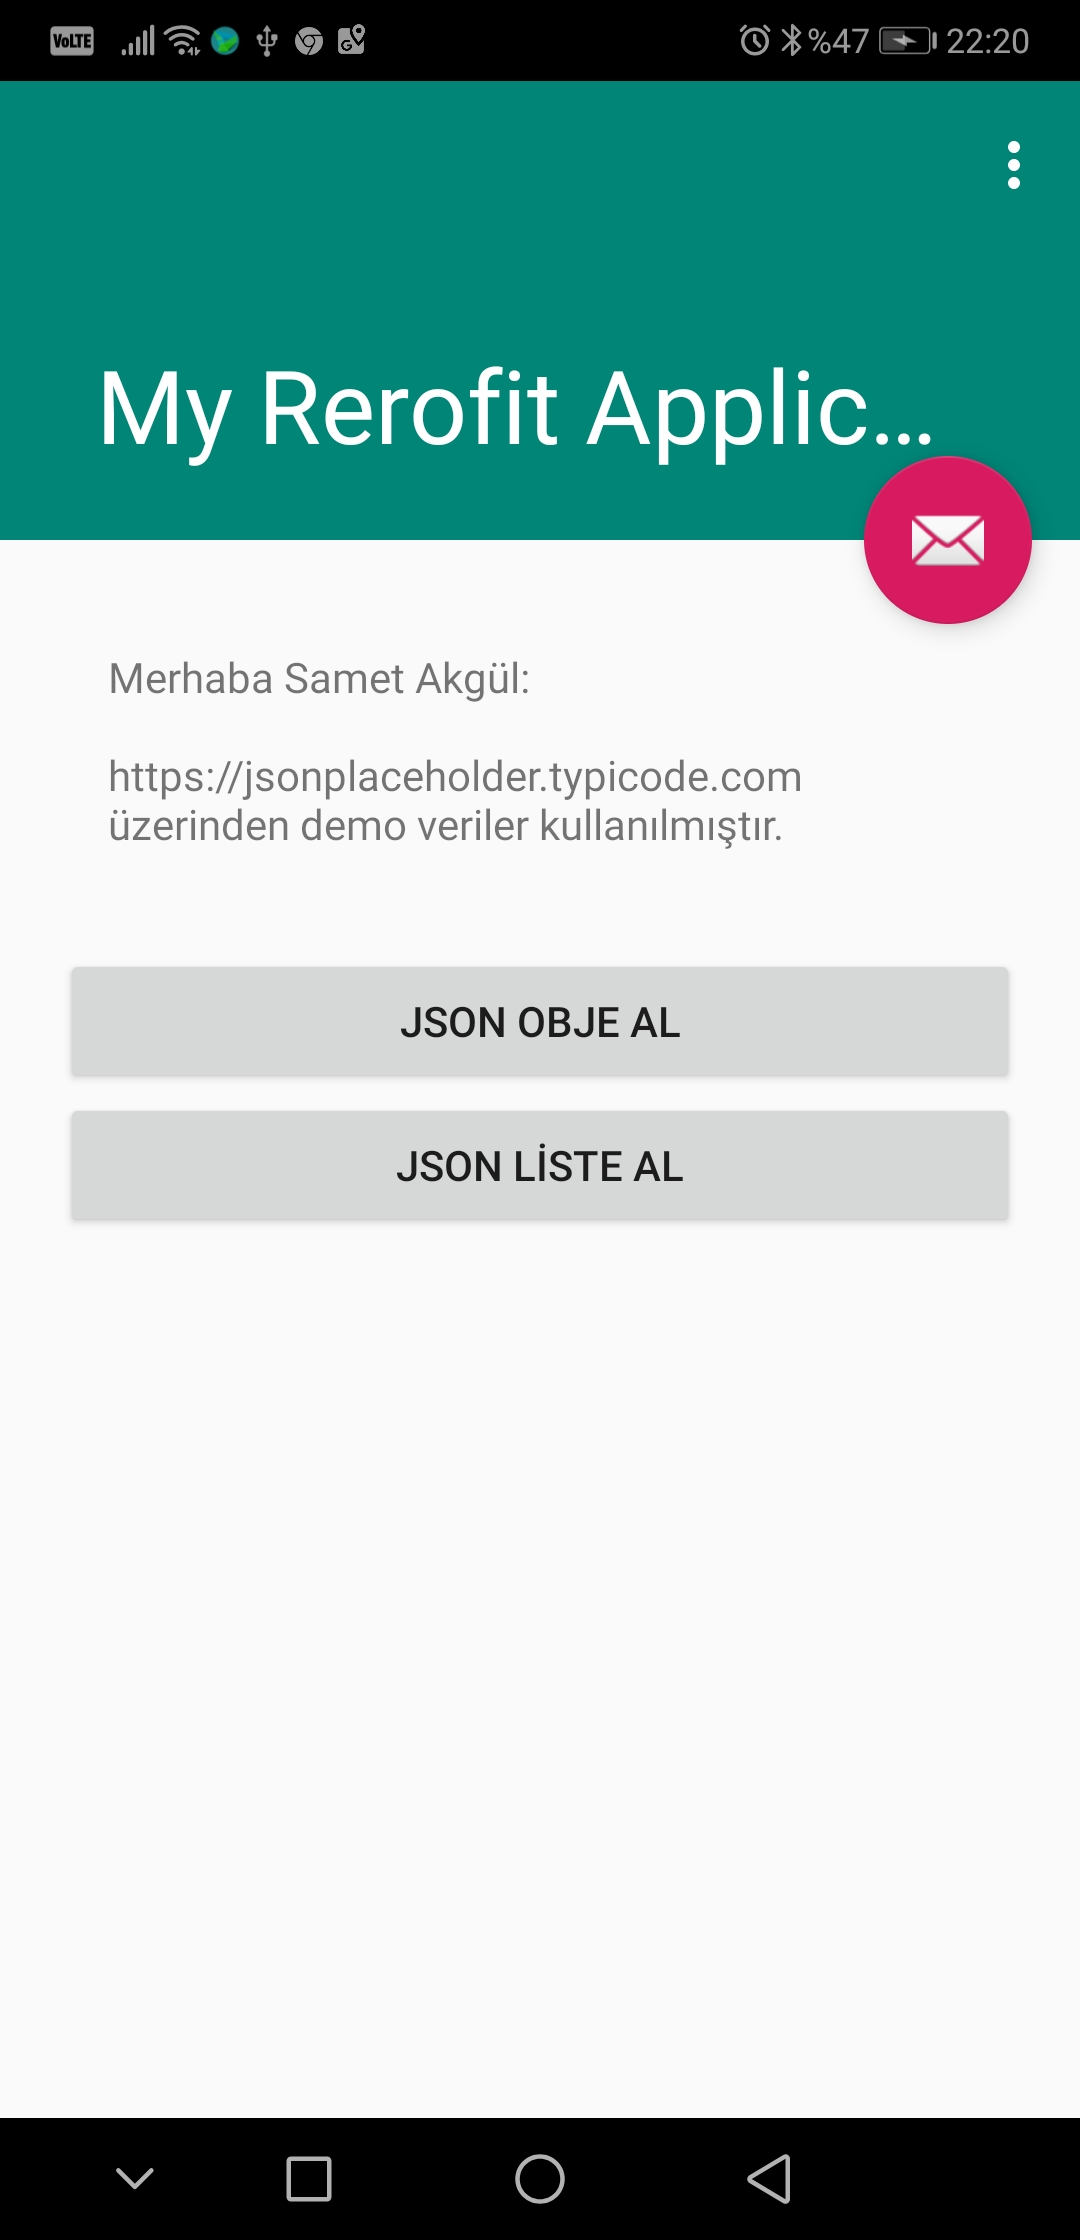
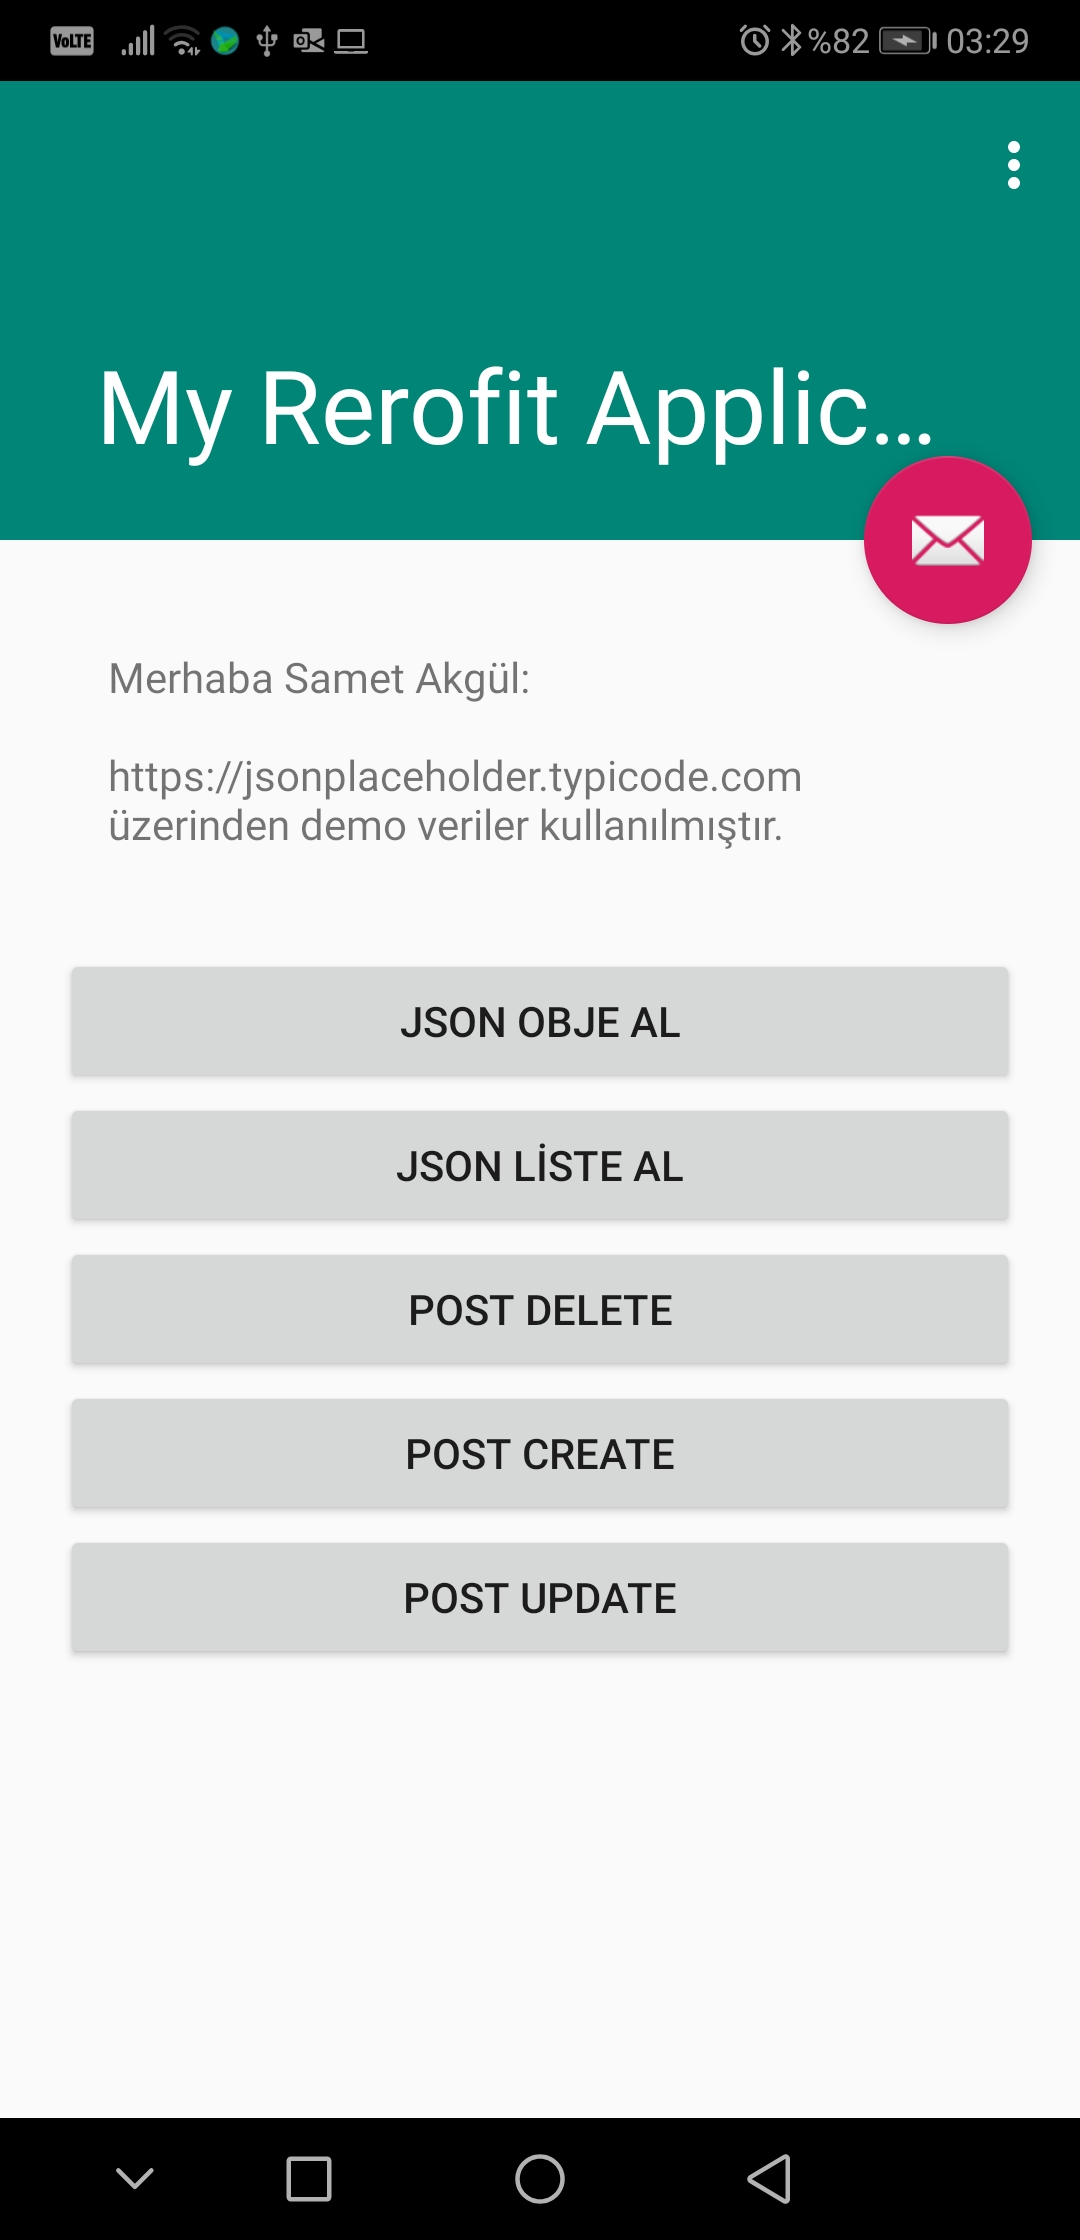
Yeni güncellemeler ve ilave özellikler eklendi.

diff --git a/app/src/main/java/com/levent/myrerofitapplication/activity/MainActivity.java b/app/src/main/java/com/levent/myrerofitapplication/activity/MainActivity.java
@@ -1,8 +1,8 @@
 /*
- * Created by Abdulkadir LEVENT  19.08.2019 22:32
+ * Created by Abdulkadir LEVENT  20.08.2019 03:34
  * Copyright (c) 2019 . All rights reserved.
  * Licensed under the Apache License, Version 2.0 (the "License");
- * Last modified:  19.08.2019 20:28
+ * Last modified:  20.08.2019 03:28
  * Contact: Email : abdulkadirlevent@hotmail.com
  * Package: app / MyRerofitApplication
  * Mobil Proje Yönetim Sistemleri
@@ -16,16 +16,24 @@ import android.os.Bundle;
 import com.google.android.material.floatingactionbutton.FloatingActionButton;
 import com.google.android.material.snackbar.Snackbar;
 import com.levent.myrerofitapplication.R;
+import com.levent.myrerofitapplication.api.ApiInterface;
+import com.levent.myrerofitapplication.api.NetworkService;
+import com.levent.myrerofitapplication.model.Post;
 
 import androidx.appcompat.app.AppCompatActivity;
 import androidx.appcompat.widget.Toolbar;
 
+import android.util.Log;
 import android.view.Menu;
 import android.view.MenuItem;
+import android.widget.Toast;
 
 import butterknife.BindView;
 import butterknife.ButterKnife;
 import butterknife.OnClick;
+import retrofit2.Call;
+import retrofit2.Callback;
+import retrofit2.Response;
 
 public class MainActivity extends AppCompatActivity {
     public static final String TAG = "MainActivity";
@@ -87,6 +95,122 @@ public class MainActivity extends AppCompatActivity {
     @OnClick(R.id.button_liste_al) void listeAl() {
         Intent intent = new Intent(this, PostsActivity.class);
         startActivity(intent);
+    }
+
+    /**
+     * 12 ID Nolu kaydı Sil
+     */
+    @OnClick(R.id.button_delete) void postDelete() {
+        deleteData(1);
+    }
+
+    /**
+     * Yeni Post Olustur
+     */
+    @OnClick(R.id.button_create) void postCreate() {
+        // Yeni Post Olusturuyoruz
+        Post post = new Post(98, 99, "Merhaba bu yeni bir baslıktır", " buda yeni bir içeriktir.");
+        createPostData(post);
+    }
+
+    /**
+     * Post Güncelle
+     */
+    @OnClick(R.id.button_update) void postUpdate() {
+        // Yeni Post verisi Olusturuyoruz
+        Post post = new Post(1, 12, "Merhaba bu post guncellenmiştir", " bu içerikte güncellenmiştir.");
+        updatePostData(post, post.getId());
+    }
+
+    /**
+     * Post Güncelle
+     * @param post
+     */
+    public void updatePostData(Post post, int id) {
+        ApiInterface service = NetworkService.getInstance().getJSONApi();
+        Call<Post> deletePost = service.updatePost(post,id);
+        deletePost.enqueue(new Callback<Post>() {
+            @Override
+            public void onResponse(Call<Post> call, Response<Post> response) {
+                Log.i(TAG, response.toString());
+                if (response.isSuccessful()) {
+                    // Başarılı oldu ise Güncellediğimiz post serverden geri dönmelidir.
+                    Post post = response.body();
+
+                    Toast.makeText(MainActivity.this,
+                            "Başarıyla Güncellendi:\n" + post.getTitle() +"  ID:"+ post.getId(),
+                            Toast.LENGTH_LONG)
+                            .show();
+                } else {
+                    Toast.makeText(MainActivity.this, "Hata! " + response.code(), Toast.LENGTH_LONG).show();
+                }
+            }
+
+            @Override
+            public void onFailure(Call<Post> call, Throwable t) {
+                Log.e(TAG, "Hata!" + t.getMessage());
+                t.printStackTrace();
+            }
+        });
+    }
+
+    /**
+     * Yeni Post Olustur
+     */
+    public void createPostData(Post post) {
+        ApiInterface service = NetworkService.getInstance().getJSONApi();
+        Call<Post> deletePost = service.createPost(post);
+        deletePost.enqueue(new Callback<Post>() {
+            @Override
+            public void onResponse(Call<Post> call, Response<Post> response) {
+                Log.i(TAG, response.body().toString());
+                if (response.isSuccessful()) {
+                    // Başarılı oldu ise oluşturduğumuz post serverden geri dönmelidir.
+                    Post post = response.body();
+
+                    Toast.makeText(MainActivity.this,
+                            "Başarıyla olusturuldu:\n" + post.getTitle() +"  ID:"+ post.getId(),
+                            Toast.LENGTH_LONG)
+                            .show();
+                } else {
+                    Toast.makeText(MainActivity.this, "Hata! " + response.code(), Toast.LENGTH_LONG).show();
+                }
+            }
+
+            @Override
+            public void onFailure(Call<Post> call, Throwable t) {
+                Log.e(TAG, "Hata!" + t.getMessage());
+                t.printStackTrace();
+            }
+        });
+    }
+
+    /**
+     * dataID Nolu kaydı sil
+     * @param dataID
+     */
+    public void deleteData(int dataID) {
+        ApiInterface service = NetworkService.getInstance().getJSONApi();
+        Call<Post> deletePost = service.deletePost(dataID);
+        deletePost.enqueue(new Callback<Post>() {
+            @Override
+            public void onResponse(Call<Post>call, Response<Post> response) {
+                Log.i(TAG, response.toString());
+                if (response.isSuccessful()) {
+                    Toast.makeText(MainActivity.this,
+                            "Başarıyla silindi\nKodumuz doğru çalışıyor.\nSilindiğine dair onay mesajı aldık\nAslında veri siilinmedi çünkü silme yetkimiz yok!",
+                            Toast.LENGTH_LONG)
+                            .show();
+                }else{
+                    Toast.makeText(MainActivity.this, "Hata! " + response.code(), Toast.LENGTH_LONG).show();
+                }
+            }
+            @Override
+            public void onFailure(Call<Post>call, Throwable t) {
+                Log.e(TAG, "Hata!" + t.getMessage());
+                t.printStackTrace();
+            }
+        });
     }
 
 }

diff --git a/app/src/main/java/com/levent/myrerofitapplication/activity/PostActivity.java b/app/src/main/java/com/levent/myrerofitapplication/activity/PostActivity.java
@@ -1,8 +1,8 @@
 /*
- * Created by Abdulkadir LEVENT  19.08.2019 22:32
+ * Created by Abdulkadir LEVENT  20.08.2019 03:34
  * Copyright (c) 2019 . All rights reserved.
  * Licensed under the Apache License, Version 2.0 (the "License");
- * Last modified:  19.08.2019 22:04
+ * Last modified:  20.08.2019 02:17
  * Contact: Email : abdulkadirlevent@hotmail.com
  * Package: app / MyRerofitApplication
  * Mobil Proje Yönetim Sistemleri
@@ -21,8 +21,10 @@ import android.view.MenuItem;
 import android.widget.TextView;
 import android.widget.Toast;
 import com.levent.myrerofitapplication.R;
+import com.levent.myrerofitapplication.api.ApiInterface;
 import com.levent.myrerofitapplication.api.NetworkService;
 import com.levent.myrerofitapplication.model.Post;
+
 import butterknife.BindView;
 import butterknife.ButterKnife;
 import retrofit2.Call;
@@ -64,7 +66,41 @@ public class PostActivity extends AppCompatActivity {
         }
     }
 
+    /**
+     * ÖRNEK 1
+     * @param dataID
+     */
     public void getData(int dataID) {
+        ApiInterface service = NetworkService.getInstance().getJSONApi();
+        Call<Post> call = service.getPostID(dataID);
+        call.enqueue(new Callback<Post>() {
+            @Override
+            public void onResponse(Call<Post> call, Response<Post> response) {
+                Log.i(TAG, response.body().toString());
+                if (response.isSuccessful()) {
+                    if (response.body() != null) {
+                        Log.i(TAG, "onSuccess:" + response.body().toString());
+                        setData(response.body());
+                    } else {
+                        Log.i(TAG, "Kayıt bulunamadı!");
+                        Toast.makeText(PostActivity.this, "Kayıt bulunamadı!", Toast.LENGTH_SHORT).show();
+                    }
+                }
+            }
+
+            @Override
+            public void onFailure(Call<Post> call, Throwable t) {
+                Log.e(TAG, "Hata!" + t.getMessage());
+                t.printStackTrace();
+            }
+        });
+    }
+
+    /**
+     * ÖRNEK 2
+     * @param dataID
+     */
+    public void getData2(int dataID) {
         NetworkService.getInstance()
                 .getJSONApi()
                 .getPostID(dataID)
@@ -86,7 +122,7 @@ public class PostActivity extends AppCompatActivity {
 
                     @Override
                     public void onFailure(Call<Post> call, Throwable t) {
-                        Log.i(TAG, "Hata!" + t.getMessage());
+                        Log.e(TAG, "Hata!" + t.getMessage());
                         t.printStackTrace();
                     }
                 });

diff --git a/app/src/main/java/com/levent/myrerofitapplication/api/ApiInterface.java b/app/src/main/java/com/levent/myrerofitapplication/api/ApiInterface.java
@@ -1,8 +1,8 @@
 /*
- * Created by Abdulkadir LEVENT  19.08.2019 22:32
+ * Created by Abdulkadir LEVENT  20.08.2019 03:34
  * Copyright (c) 2019 . All rights reserved.
  * Licensed under the Apache License, Version 2.0 (the "License");
- * Last modified:  19.08.2019 20:28
+ * Last modified:  20.08.2019 03:21
  * Contact: Email : abdulkadirlevent@hotmail.com
  * Package: app / MyRerofitApplication
  * Mobil Proje Yönetim Sistemleri
@@ -15,7 +15,11 @@ import com.levent.myrerofitapplication.model.Post;
 import java.util.List;
 
 import retrofit2.Call;
+import retrofit2.http.Body;
+import retrofit2.http.DELETE;
 import retrofit2.http.GET;
+import retrofit2.http.POST;
+import retrofit2.http.PUT;
 import retrofit2.http.Path;
 
 public interface ApiInterface {
@@ -33,4 +37,30 @@ public interface ApiInterface {
      */
     @GET("/posts/{id}")
     Call<Post> getPostID(@Path("id") int id);
+
+    /**
+     * Yeni post oluşturuyoruz
+     * @param post
+     * @return
+     */
+    @POST("/posts")
+    Call<Post> createPost(@Body Post post);
+
+    /**
+     * in nolu postu güncelliyoruz
+     * @param post
+     * @return
+     */
+    @PUT("/posts/{id}")
+    Call<Post> updatePost(@Body Post post, @Path("id") int id);
+
+    /**
+     * id nolu postu siiliyoruz
+     * @param postId
+     * @return
+     */
+    @DELETE("/posts/{id}")
+    Call<Post> deletePost(@Path("id") int postId);
+
+
 }

diff --git a/app/src/main/java/com/levent/myrerofitapplication/activity/PostsActivity.java b/app/src/main/java/com/levent/myrerofitapplication/activity/PostsActivity.java
@@ -1,8 +1,8 @@
 /*
- * Created by Abdulkadir LEVENT  19.08.2019 22:32
+ * Created by Abdulkadir LEVENT  20.08.2019 03:34
  * Copyright (c) 2019 . All rights reserved.
  * Licensed under the Apache License, Version 2.0 (the "License");
- * Last modified:  19.08.2019 22:05
+ * Last modified:  20.08.2019 01:13
  * Contact: Email : abdulkadirlevent@hotmail.com
  * Package: app / MyRerofitApplication
  * Mobil Proje Yönetim Sistemleri
@@ -10,6 +10,7 @@
 
 package com.levent.myrerofitapplication.activity;
 
+import android.app.ProgressDialog;
 import android.os.Bundle;
 import androidx.appcompat.app.AppCompatActivity;
 import androidx.appcompat.widget.Toolbar;
@@ -50,7 +51,7 @@ public class PostsActivity extends AppCompatActivity  {
 
         setSupportActionBar(toolbar);
         getSupportActionBar().setDisplayHomeAsUpEnabled(true);
-        
+
         NetworkService.getInstance()
                 .getJSONApi()
                 .getAllPosts()

diff --git a/app/src/main/java/com/levent/myrerofitapplication/model/Post.java b/app/src/main/java/com/levent/myrerofitapplication/model/Post.java
@@ -1,9 +1,9 @@
 
 /*
- * Created by Abdulkadir LEVENT  19.08.2019 22:32
+ * Created by Abdulkadir LEVENT  20.08.2019 03:34
  * Copyright (c) 2019 . All rights reserved.
  * Licensed under the Apache License, Version 2.0 (the "License");
- * Last modified:  19.08.2019 20:28
+ * Last modified:  20.08.2019 02:53
  * Contact: Email : abdulkadirlevent@hotmail.com
  * Package: app / MyRerofitApplication
  * Mobil Proje Yönetim Sistemleri

diff --git a/app/src/androidTest/java/com/levent/myrerofitapplication/ExampleInstrumentedTest.java b/app/src/androidTest/java/com/levent/myrerofitapplication/ExampleInstrumentedTest.java
@@ -1,8 +1,8 @@
 /*
- * Created by Abdulkadir LEVENT  19.08.2019 22:32
+ * Created by Abdulkadir LEVENT  20.08.2019 03:34
  * Copyright (c) 2019 . All rights reserved.
  * Licensed under the Apache License, Version 2.0 (the "License");
- * Last modified:  19.08.2019 20:28
+ * Last modified:  19.08.2019 22:33
  * Contact: Email : abdulkadirlevent@hotmail.com
  * Package: app / MyRerofitApplication
  * Mobil Proje Yönetim Sistemleri

diff --git a/app/src/main/java/com/levent/myrerofitapplication/adapter/PostsAdapter.java b/app/src/main/java/com/levent/myrerofitapplication/adapter/PostsAdapter.java
@@ -1,8 +1,8 @@
 /*
- * Created by Abdulkadir LEVENT  19.08.2019 22:32
+ * Created by Abdulkadir LEVENT  20.08.2019 03:34
  * Copyright (c) 2019 . All rights reserved.
  * Licensed under the Apache License, Version 2.0 (the "License");
- * Last modified:  19.08.2019 22:02
+ * Last modified:  20.08.2019 00:21
  * Contact: Email : abdulkadirlevent@hotmail.com
  * Package: app / MyRerofitApplication
  * Mobil Proje Yönetim Sistemleri

diff --git a/app/src/main/java/com/levent/myrerofitapplication/adapter/PostsCardAdapter.java b/app/src/main/java/com/levent/myrerofitapplication/adapter/PostsCardAdapter.java
@@ -1,8 +1,8 @@
 /*
- * Created by Abdulkadir LEVENT  19.08.2019 23:25
+ * Created by Abdulkadir LEVENT  20.08.2019 03:34
  * Copyright (c) 2019 . All rights reserved.
  * Licensed under the Apache License, Version 2.0 (the "License");
- * Last modified:  19.08.2019 23:25
+ * Last modified:  20.08.2019 00:33
  * Contact: Email : abdulkadirlevent@hotmail.com
  * Package: app / MyRerofitApplication
  * Mobil Proje Yönetim Sistemleri

diff --git a/app/src/main/java/com/levent/myrerofitapplication/api/NetworkService.java b/app/src/main/java/com/levent/myrerofitapplication/api/NetworkService.java
@@ -1,8 +1,8 @@
 /*
- * Created by Abdulkadir LEVENT  19.08.2019 22:32
+ * Created by Abdulkadir LEVENT  20.08.2019 03:34
  * Copyright (c) 2019 . All rights reserved.
  * Licensed under the Apache License, Version 2.0 (the "License");
- * Last modified:  19.08.2019 20:28
+ * Last modified:  19.08.2019 22:33
  * Contact: Email : abdulkadirlevent@hotmail.com
  * Package: app / MyRerofitApplication
  * Mobil Proje Yönetim Sistemleri

diff --git a/app/src/test/java/com/levent/myrerofitapplication/ExampleUnitTest.java b/app/src/test/java/com/levent/myrerofitapplication/ExampleUnitTest.java
@@ -1,8 +1,8 @@
 /*
- * Created by Abdulkadir LEVENT  19.08.2019 22:32
+ * Created by Abdulkadir LEVENT  20.08.2019 03:34
  * Copyright (c) 2019 . All rights reserved.
  * Licensed under the Apache License, Version 2.0 (the "License");
- * Last modified:  19.08.2019 20:28
+ * Last modified:  19.08.2019 22:32
  * Contact: Email : abdulkadirlevent@hotmail.com
  * Package: app / MyRerofitApplication
  * Mobil Proje Yönetim Sistemleri
